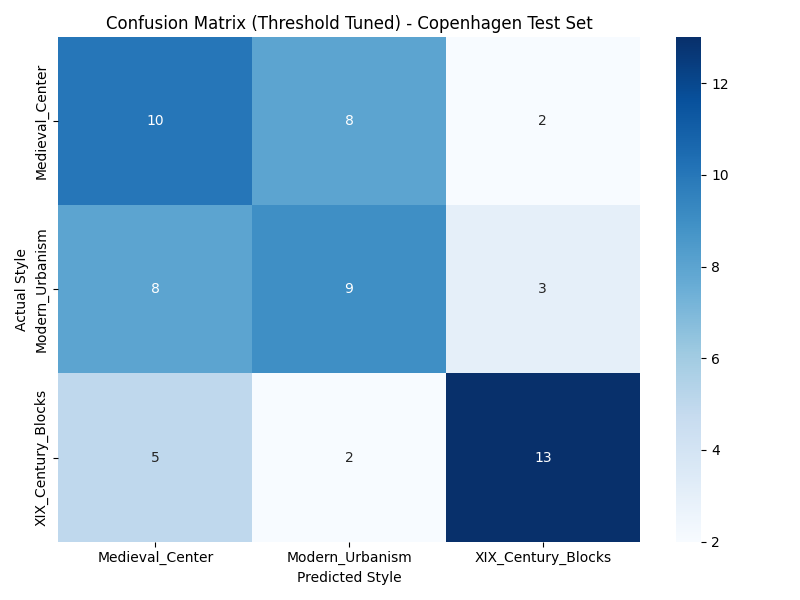
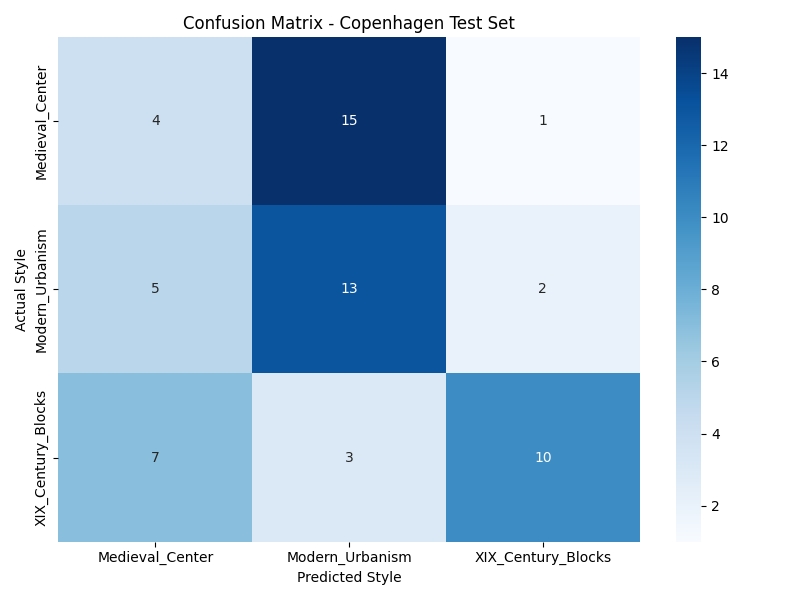
Fixing readme

diff --git a/README.md b/README.md
@@ -15,25 +15,23 @@ The project focuses on cross-border generalization challenges (**Domain Shift** 
 
 Following a production-grade modular design, the repository is organized as follows:
 
-- `config.json` - spatial bounds and definitions for 16 target cities.
-- `data/city_data/` - raw and intermediate spatial processing files (`copenhagen_bounds.geojson`, `copenhagen_grid.geojson`).
-- `combined_urban_features.csv` - final integrated multi-city dataset used for training.
-- `copenhagen_features.csv` - target evaluation features for inference testing.
-- `models/urban_morphology_pipeline.joblib` - serialized production pipeline (Scaler + RF Model).
-- `plots/confusion_matrix.png` - threshold-tuned test performance layout.
-- `plots/cv_roc_auc_curve.png` - multiclass One-vs-Rest ROC analysis.
-- `plots/hyperparameter_tuning_curves.png` - validation curves for `max_depth` and `n_estimators`.
-- `plots/learning_curve.png` - convergence and data scalability analysis.
+- `data/config.json` - spatial bounds and definitions for 16 target cities.
+- `data/city_data/` - city grids used for spatial processing and inference.
+- `data/combined_urban_features.csv` - final integrated multi-city dataset used for training.
+- `models/RandomForest.joblib` - serialized Random Forest pipeline artifacts (model + scaler + features).
+- `plots_RF/confusion_matrix.png` - threshold-tuned test performance layout.
+- `plots_RF/cv_roc_auc_curve.png` - multiclass One-vs-Rest ROC analysis.
+- `plots_RF/hyperparameter_tuning_curves.png` - validation curves for `max_depth` and `n_estimators`.
+- `plots_RF/learning_curve.png` - convergence and data scalability analysis.
+- `plots/copenhagen_prediction_map.html` - interactive spatial inference map.
 - `src/building_features.py` - feature extractor for polygon elongation and shape metrics.
-- `src/calculate_spatial_lag.py` - contextual neighborhood spatial smoothing.
-- `src/config_loader.py` - JSON profile ingestion module.
-- `src/download_osm_data.py` - Overpass/OSMnx raw spatial ingestion pipeline.
-- `src/evaluate_performance.py` - threshold tuning and visualization matrix generator.
-- `src/generate_cph.py` - focused inference and Folium HTML map pipeline.
-- `src/main.py` - execution orchestrator.
+- `src/saving_data.py` - OSMnx/GeoPandas pipeline for feature extraction and dataset assembly.
+- `src/evaluate_RF.py` - Random Forest evaluation and visualization generator.
+- `src/generate_map.py` - focused inference and Folium HTML map pipeline.
 - `src/road_features.py` - feature extractor for structural linear density.
 - `src/save_features.py` - primary feature consolidation and data assembly.
-- `src/train_pipeline.py` - scaler alignment and hyperparameter grid search.
+- `src/Baseline_RF_model.py` - scaler alignment and hyperparameter grid search for Random Forest.
+- `src/Lgbm_model.py` - benchmark training pipeline for LightGBM.
 
 ---
 
@@ -50,11 +48,11 @@ The core objective is to train an ensemble model on historical and spatial footp
 
 The architecture is divided into decoupled, production-grade stages:
 
-### 1) Extraction (`download_osm_data.py`, `save_features.py`)
+### 1) Extraction (`saving_data.py`, `save_features.py`)
 
 Connects to OpenStreetMap through OSMnx and processes raw building/road geometries into standardized `400 x 400 m` grids mapped in `copenhagen_grid.geojson`.
 
-### 2) Feature Engineering (`building_features.py`, `road_features.py`, `calculate_spatial_lag.py`)
+### 2) Feature Engineering (`building_features.py`, `road_features.py`, spatial lag in `saving_data.py`)
 
 Transforms absolute values into dynamic, scale-aware spatial descriptors:
 
@@ -67,7 +65,7 @@ Transforms absolute values into dynamic, scale-aware spatial descriptors:
 - `building_to_road_density_ratio` and `courtyard_index`  
   Metrics that help distinguish compact perimeter blocks from contemporary open layouts.
 
-### 3) Training & Scaling (`train_pipeline.py`)
+### 3) Training & Scaling (`Baseline_RF_model.py`)
 
 Standardizes predictors with `StandardScaler` and trains an optimized `RandomForestClassifier` through cross-validated hyperparameter search.
 
@@ -83,6 +81,8 @@ Under high local class overlap and noisy small-cell contexts, LightGBM showed un
 **Figure 1: Learning Curve**  
 Cross-validation score scales toward ~`0.62` macro F1 with a positive boundary trend, suggesting meaningful cross-border generalization potential.
 
+![Learning Curve](plots_RF/learning_curve.png)
+
 ### 2) Hyperparameter Optimization
 
 A 5-fold cross-validation grid search was used to control model complexity and reduce overfitting on municipality-specific patterns.
@@ -90,11 +90,13 @@ A 5-fold cross-validation grid search was used to control model complexity and r
 **Figure 2: Validation Curves**  
 `n_estimators` and `max_depth` tuning show a balanced optimum between robustness and computational cost.
 
+![Hyperparameter Tuning Curves](plots_RF/hyperparameter_tuning_curves.png)
+
 ### 3) Classification Threshold Fine-Tuning
 
 Because medieval cores form a minority class in most large cities, default multiclass argmax thresholds were replaced by class-specific tuned thresholds derived from training precision-recall dynamics.
 
-Final report on Copenhagen test set (`copenhagen_features.csv`):
+Final report on Copenhagen test set (`copenhagen_features`):
 
 - `Medieval_Center` - Precision: `0.55` | Recall: `0.48` | F1: `0.51` | Support: `25`
 - `XIX_Century_Blocks` - Precision: `0.79` | Recall: `0.82` | F1: `0.80` | Support: `40`
@@ -102,6 +104,10 @@ Final report on Copenhagen test set (`copenhagen_features.csv`):
 - Accuracy: `0.64` | Support: `97`
 - Macro Avg - Precision: `0.65` | Recall: `0.62` | F1: `0.63` | Support: `97`
 - Weighted Avg - Precision: `0.66` | Recall: `0.64` | F1: `0.65` | Support: `97`
+
+**Confusion Matrix (Copenhagen holdout):**
+
+![Confusion Matrix](plots_RF/confusion_matrix.png)
 
 ---
 
@@ -117,14 +123,17 @@ To measure class separability independently of fixed decision thresholds, the pr
 
 These results indicate strong separability for key morphology classes under engineered geometric features.
 
+![Multiclass ROC-AUC](plots_RF/cv_roc_auc_curve.png)
+
 ### 2) Spatial Visualization (Inference Map)
 
 Inference outputs are projected back to geographic space and visualized as an interactive map.
 
 Open locally:
 - `plots/copenhagen_prediction_map.html`
-
-If needed for a polished GitHub layout, you can add a static screenshot (for example: `plots/map_screenshot.png`) and embed it directly in this README.
+  
+Direct link from GitHub file view:
+- [Open interactive Copenhagen map](plots/copenhagen_prediction_map.html)
 
 Qualitative observations from Copenhagen:
 - **North Cluster (Nordhavn/Østerbro):** predominantly `Modern_Urbanism`.